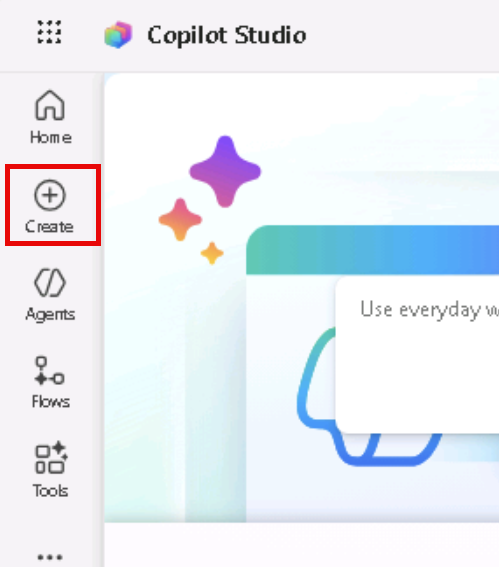
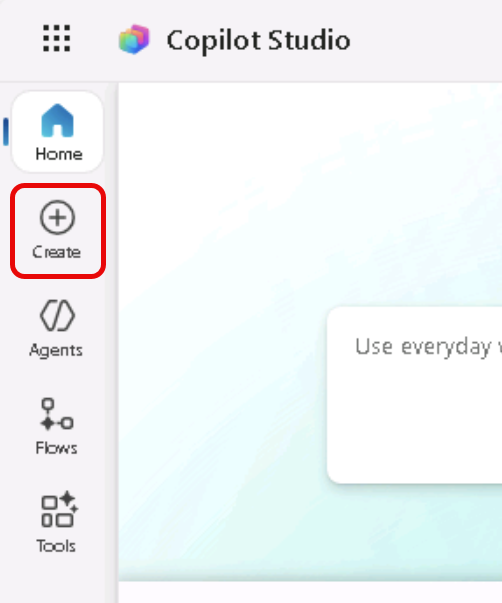
Updated lab

diff --git a/lab/instructions/01-Build-Your-Agent.md b/lab/instructions/01-Build-Your-Agent.md
@@ -67,18 +67,19 @@ To start, you're going to setup the foundation for your agent in Copilot Studio.
 
 1. In the left nav click **+ Create** button to start creating a new agent
 
-    ![create.png](./assets/AgentsLeftNav.png)
+    ![create.png](./assets/CreateLeftNav.png)
 
 1. Click **New agent**
 
     ![create-new-agent.png](./assets/NewAgent.png)
 
-    > [!NOTE]
-    > It could take a minute or two for the agent to fully configure. You'll see a message that says your agent is provisioned when it's ready.
+1. Select **Configure** to configure your agent
 
-1. When the agent is provisioned, select **Edit** in the details card
+    ![Configure your agent](./assets/ConfigureName.png)
 
-1. Name your agent +++Zava Order Support+++ and select **Save**
+1. Name your agent +++Zava Order Support+++ and select **Create**
+
+    ![Create button](./assets/CreateButton.png)
 
 1. Now, you need to equip it with knowledge so it can answer questions about the company, shipping policies, etc. To do this, scroll down to the knowledge section and select the **Add Knowledge** tab.
 
